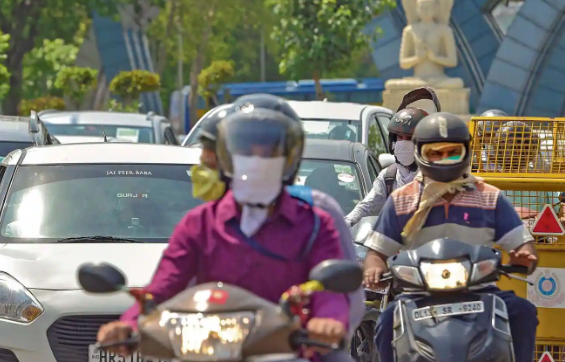
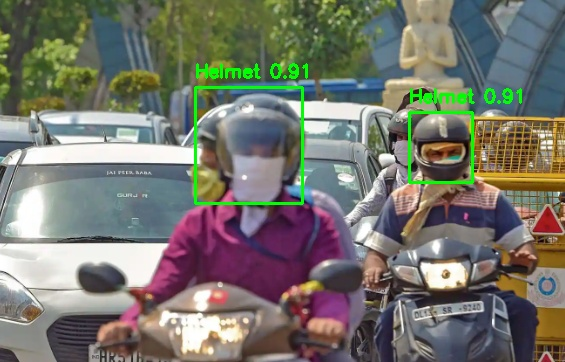
Updated helmet detection logic and UI

Changed region(s): [[0.331, 0.1519, 0.5717, 0.5773], [0.7221, 0.2431, 0.9327, 0.5166]]

diff --git a/templates/index.html b/templates/index.html
@@ -150,11 +150,15 @@ h3{
 <!-- ================= RIGHT ================= -->
 <div class="card right">
 
-    <h3>Camera Feed</h3>
+    <h3>Camera Feed / Detection Result</h3>
     <img id="liveCam" src="">
 
     {% if image %}
-    <img src="{{ image }}">
+    <div style="margin-top:20px;">
+        <h4 style="color:#00ff66; text-shadow: 0 0 10px #00ff66;">📊 Detection Result:</h4>
+        <img src="{{ image }}?t={{ range(1, 1000)|random }}" style="margin-top:10px; border: 3px solid #00c6ff;">
+        <p style="margin-top:10px; font-size:14px; color:#aaa;">🟩 Green Box = Helmet Detected | 🟥 Red Box = No Helmet</p>
+    </div>
     {% endif %}
 
 </div>
@@ -224,6 +228,8 @@ function setRed(){
     clearInterval(interval); // STOP TIMER
     interval = null;
     stopTimerFlag = true; // prevent auto-restart
+    countdown = 30; // Reset countdown
+    updateTimer(); // Update display to show 30s
 }
 
 function setGreen(){
@@ -244,10 +250,11 @@ setInterval(()=>{
 
     const d = ctx.getImageData(20,40,1,1).data;
 
-    if(d[0] > 150 && d[1] < 80){
+    // Check pixel color: Red channel (d[2]) for RED signal, Green channel (d[1]) for GREEN signal
+    if(d[2] > 150){  // Red pixel detected - NO HELMET
         setRed();
-    } else {
-        stopTimerFlag = false; // allow timer when green
+    } else if(d[1] > 150){  // Green pixel detected - HELMET PRESENT
+        stopTimerFlag = false;
         setGreen();
     }
 

diff --git a/app.py b/app.py
@@ -20,24 +20,42 @@ def index():
         img_path = "static/upload.jpg"
         image.save(img_path)
 
+        # Read image with OpenCV
+        img = cv2.imread(img_path)
+        
         results = model(img_path)
 
         helmet_detected = False
 
+        # Draw bounding boxes on image
         for r in results:
             for box in r.boxes:
                 cls = int(box.cls[0])
+                x1, y1, x2, y2 = map(int, box.xyxy[0])
+                conf = box.conf[0]
 
-                # Class 0 = helmet (common in these models)
+                # Class 0 = helmet (GREEN), others = no helmet (RED)
                 if cls == 0:
                     helmet_detected = True
+                    color = (0, 255, 0)  # Green for helmet
+                    label = f"Helmet {conf:.2f}"
+                else:
+                    color = (0, 0, 255)  # Red for no helmet
+                    label = f"No Helmet {conf:.2f}"
+
+                # Draw rectangle and label on image
+                cv2.rectangle(img, (x1, y1), (x2, y2), color, 2)
+                cv2.putText(img, label, (x1, y1-10), cv2.FONT_HERSHEY_SIMPLEX, 0.6, color, 2)
+
+        # Save processed image
+        cv2.imwrite(img_path, img)
 
         if helmet_detected:
             signal = "GREEN"
         else:
             signal = "RED"
 
-    return render_template("index.html", signal=signal)
+    return render_template("index.html", signal=signal, image="static/upload.jpg" if signal else None)
 
 def generate_frames():
     global helmet_status
